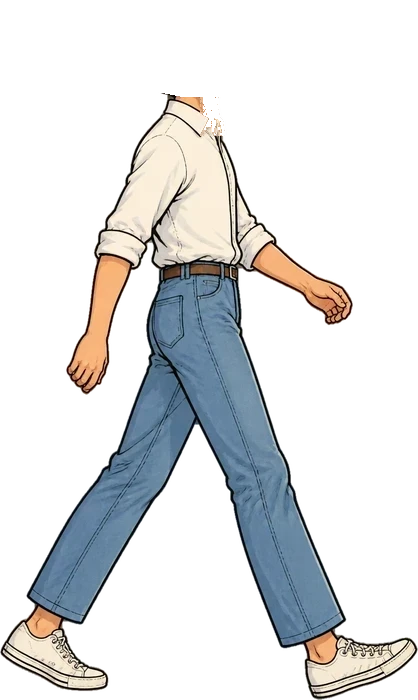
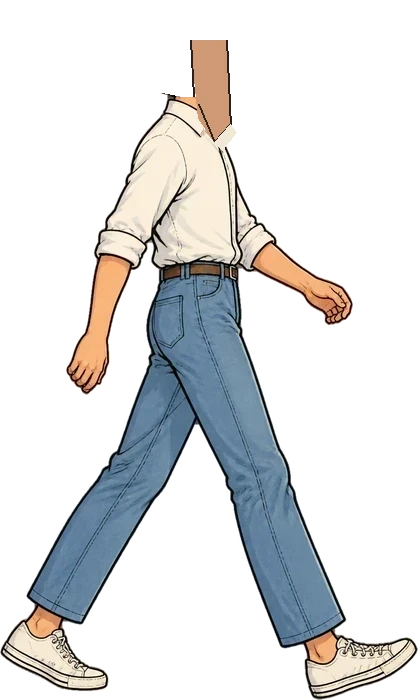
Visible neck while walking; plane behind Manu's hand
Claude-Session: https://claude.ai/code/session_014wiP6WimH2b4AML7aFrYC6

Changed region(s): [[0.4354, 0.06, 0.5598, 0.21]]

diff --git a/index.html b/index.html
@@ -159,12 +159,12 @@
   <img class="art" data-box="0,0,1680,944" src="assets/land-day.webp" alt="">
   <img class="art ph1" data-box="0,0,1680,944" src="assets/land-sunset.webp" alt="">
   <img class="art ph2" data-box="0,0,1680,944" src="assets/land-night.webp" alt="">
+<div id="plane" class="sprite"><img src="assets/plane-body.webp" alt=""><img id="hPlane2" class="head flip" src="assets/head-p-walk-n.webp" alt="" style="left:47.62%;top:-12.47%;width:13.87%;height:40.42%;opacity:0"><img id="hPlane" class="head flip" src="assets/head-p-plane-n.webp" alt="" style="left:48.21%;top:-11.51%;width:13.26%;height:41.55%"></div>
   <div id="manu" class="sprite"><img src="assets/manu-body.webp" alt=""><div class="arm"><img src="assets/manu-arm.webp" alt=""></div><img id="hManu" class="head" src="assets/head-m-wave.webp" alt="" style="left:29.57%;top:10.45%;width:47.91%;height:27.03%"><img id="hManuR" class="head" src="assets/head-m-upright.webp" alt="" style="left:28.70%;top:10.45%;width:46.90%;height:27.03%;opacity:0"><img id="hManuL" class="head" src="assets/head-m-left.webp" alt="" style="left:26.96%;top:11.17%;width:43.43%;height:26.31%;opacity:0"></div>
   <div id="planeEmpty" class="sprite"><img src="assets/plane-empty.webp" alt=""></div>
-  <div id="walker" class="sprite"><img src="assets/walker-body.webp" alt=""><img id="hWalk" class="head" src="assets/head-p-walk-n.webp" alt="" style="left:31.10%;top:-8.57%;width:35.95%;height:31.05%"></div>
+  <div id="walker" class="sprite"><img src="assets/walker-body.webp" alt=""><img id="hWalk" class="head" src="assets/head-p-walk.webp" alt="" style="left:24.64%;top:-11.43%;width:35.95%;height:28.00%"></div>
   <div id="hug" class="sprite"><img src="assets/hug-body.webp" alt=""><img id="hHugM" class="head" src="assets/head-m-hug.webp" alt="" style="left:19.86%;top:-5.06%;width:28.13%;height:24.19%"><img id="hHugP" class="head" src="assets/head-p-hug.webp" alt="" style="left:-1.89%;top:3.94%;width:25.04%;height:18.85%"></div>
   <div id="hearts"></div>
-  <div id="plane" class="sprite"><img src="assets/plane-body.webp" alt=""><img id="hPlane2" class="head flip" src="assets/head-p-walk-n.webp" alt="" style="left:47.62%;top:-12.47%;width:13.87%;height:40.42%;opacity:0"><img id="hPlane" class="head flip" src="assets/head-p-plane-n.webp" alt="" style="left:48.21%;top:-11.51%;width:13.26%;height:41.55%"></div>
 </div>
 
 <main>
